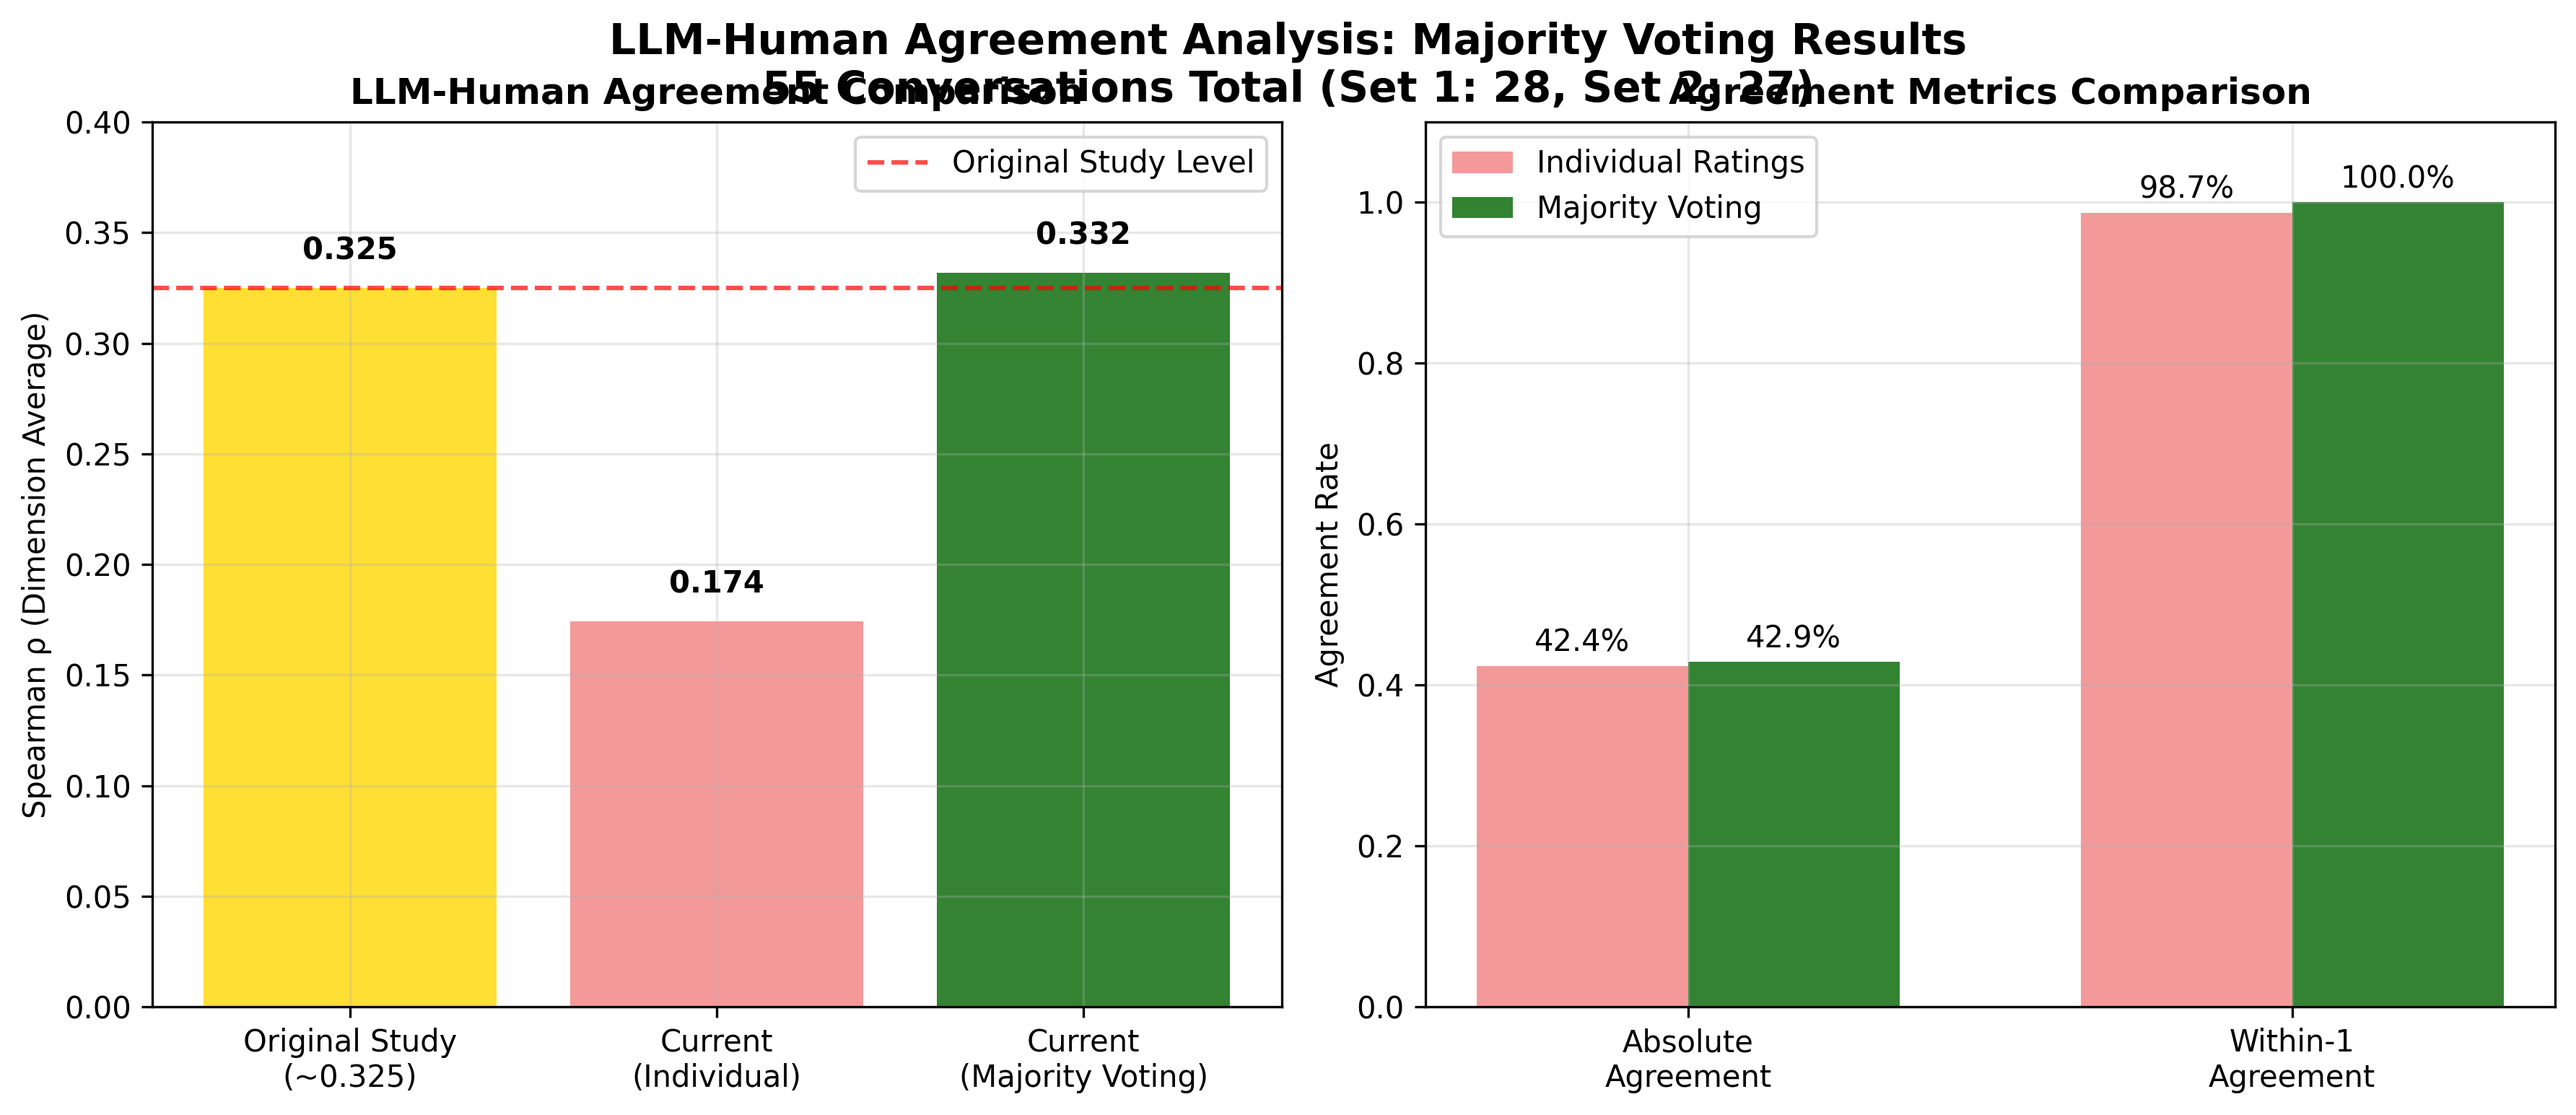
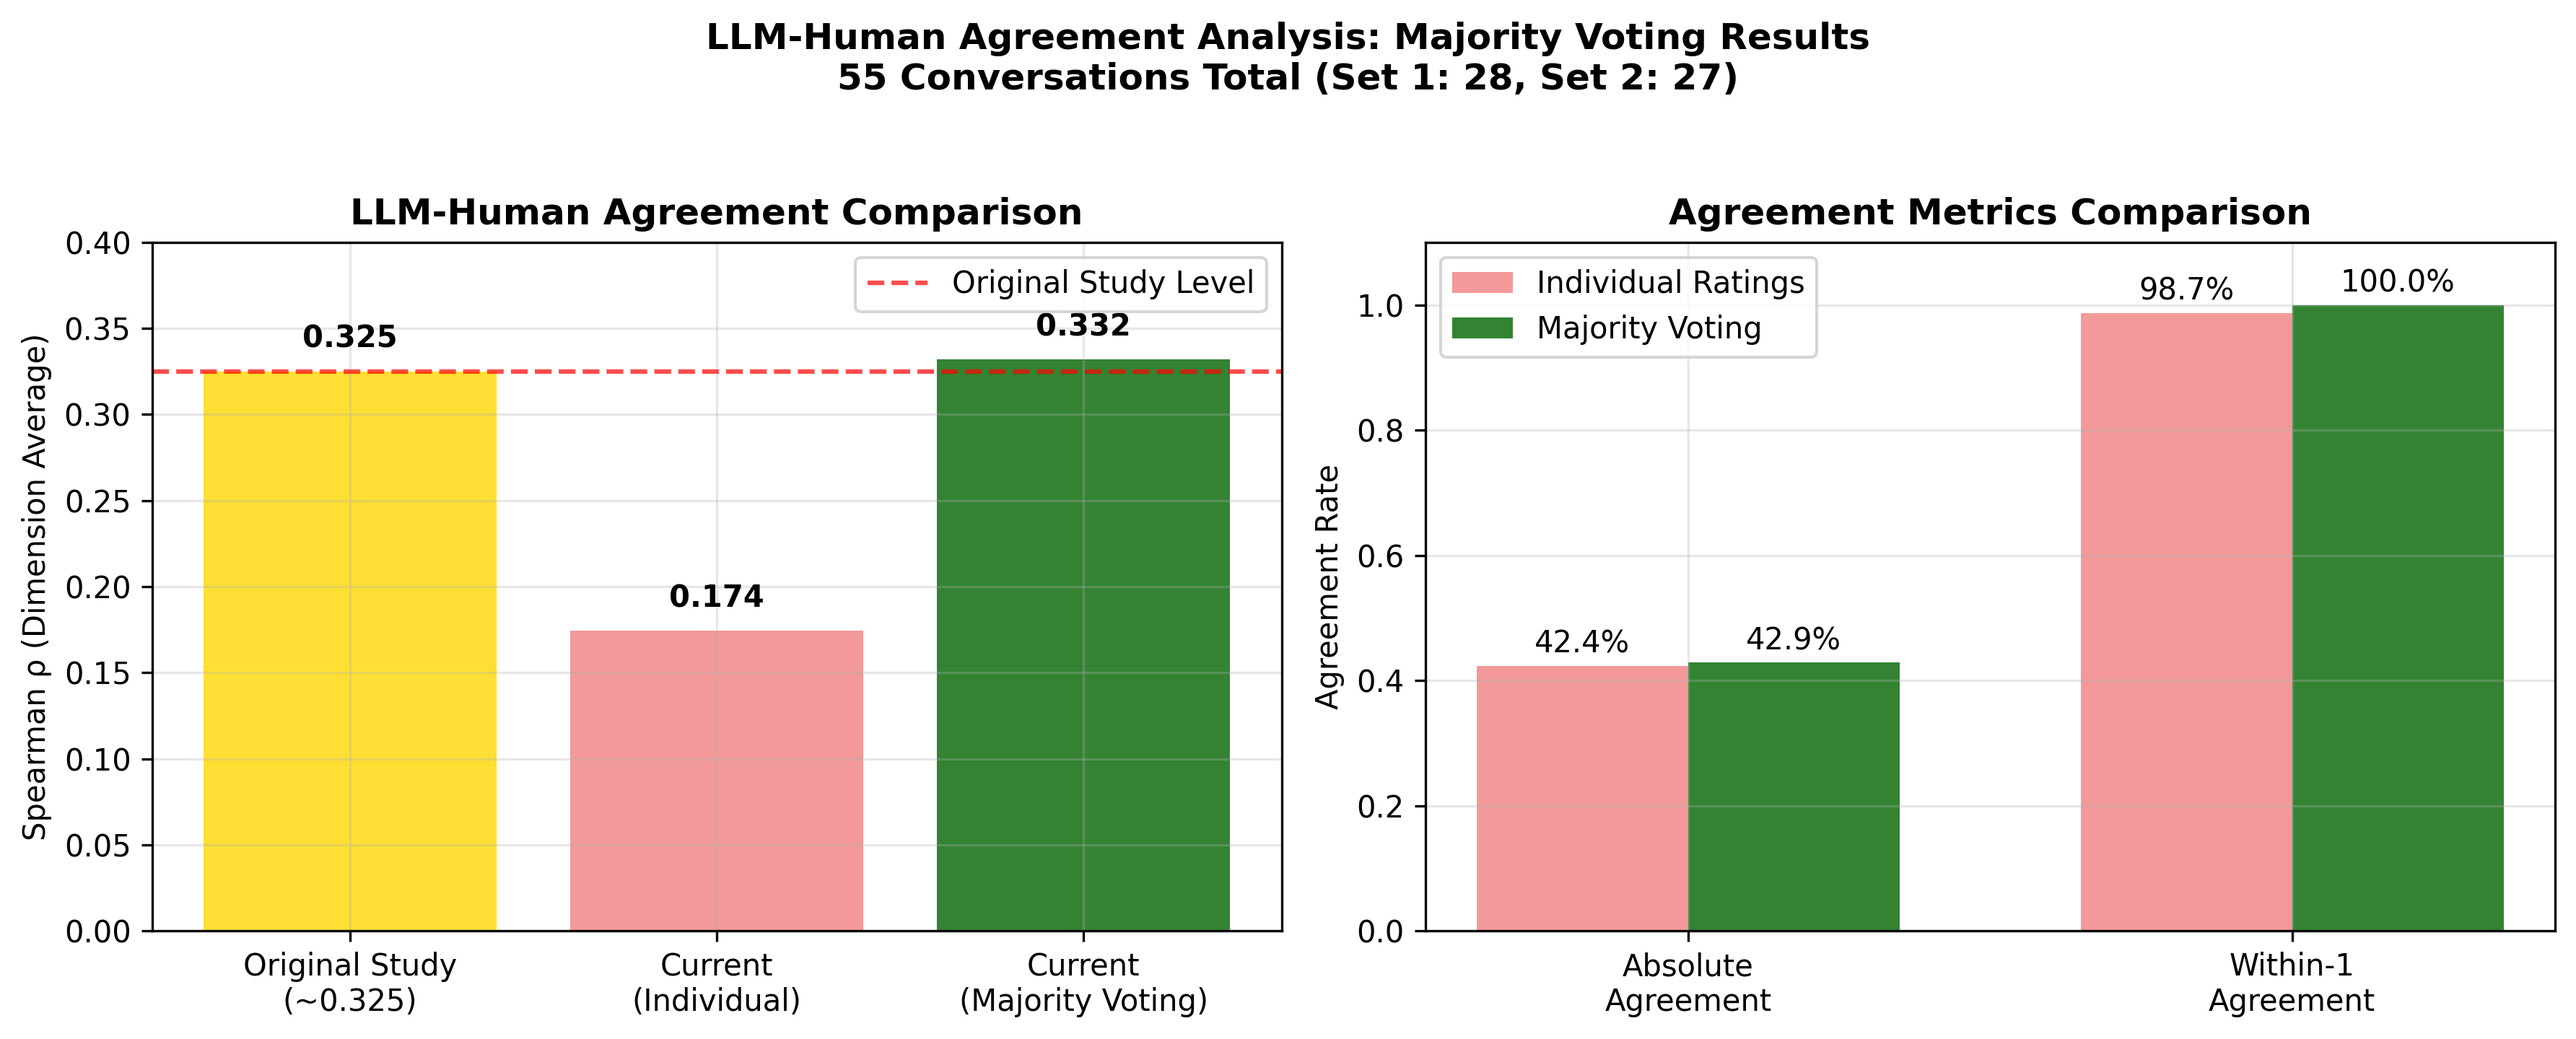
Add clear descriptions to complex visualization
- Add explanatory text below each subplot in main analysis figure
- Increase figure height to accommodate description text
- Adjust layout with tight_layout to prevent text overlap
- Each subplot now has italic text explaining what it shows
- Makes the complex 9-panel figure much more understandable

diff --git a/llm_human_agreement/analysis/full_dataset_majority/llm_human_agreement_with_majority_voting.py b/llm_human_agreement/analysis/full_dataset_majority/llm_human_agreement_with_majority_voting.py
@@ -192,9 +192,9 @@ def plot_enhanced_agreement_analysis(results_majority, results_individual=None):
     """Create enhanced visualizations comparing majority voting vs individual ratings"""
     
     if results_individual:
-        fig, axes = plt.subplots(3, 3, figsize=(18, 14))
+        fig, axes = plt.subplots(3, 3, figsize=(18, 16))  # Increased height for descriptions
     else:
-        fig, axes = plt.subplots(2, 3, figsize=(15, 10))
+        fig, axes = plt.subplots(2, 3, figsize=(15, 12))  # Increased height for descriptions
     
     dimensions = list(results_majority.keys())
     
@@ -225,6 +225,10 @@ def plot_enhanced_agreement_analysis(results_majority, results_individual=None):
     ax.grid(True, alpha=0.3)
     ax.set_ylim([0, 1.1])
     
+    # Add description
+    ax.text(0.5, -0.20, 'Exact match (blue) and ±1 tolerance (red) rates\nafter resolving human disagreements via majority voting',
+           transform=ax.transAxes, ha='center', va='top', fontsize=8, style='italic')
+    
     # Plot 2: Correlations with Kappa
     ax = axes[0, 1]
     
@@ -254,6 +258,10 @@ def plot_enhanced_agreement_analysis(results_majority, results_individual=None):
     ax.grid(True, alpha=0.3)
     ax.set_ylim([-0.1, 1])
     
+    # Add description
+    ax.text(0.5, -0.20, 'Three statistical measures: Spearman/Pearson correlations\nand Cohen\'s κ for classification agreement',
+           transform=ax.transAxes, ha='center', va='top', fontsize=8, style='italic')
+    
     # Plot 3: Human Inter-rater Agreement
     ax = axes[0, 2]
     human_agreements = [results_majority[d]['avg_human_agreement'] for d in dimensions]
@@ -269,6 +277,10 @@ def plot_enhanced_agreement_analysis(results_majority, results_individual=None):
     ax.set_xticklabels([d.replace('_', ' ').title() for d in dimensions], rotation=45, ha='right')
     ax.grid(True, alpha=0.3)
     ax.set_ylim([0, 1])
+    
+    # Add description
+    ax.text(0.5, -0.35, 'Human evaluators agreed ~73-75% of the time,\nshowing need for majority voting to resolve disagreements',
+           transform=ax.transAxes, ha='center', va='top', fontsize=8, style='italic')
     
     # Plots 4-6: Scatter plots for first 3 dimensions
     for idx, dim in enumerate(dimensions[:3]):
@@ -306,6 +318,10 @@ def plot_enhanced_agreement_analysis(results_majority, results_individual=None):
         
         # Add colorbar
         plt.colorbar(im, ax=ax, fraction=0.046, pad=0.04)
+        
+        # Add description for confusion matrix
+        ax.text(0.5, -0.25, 'Score distribution: darker = more frequent\nDiagonal = perfect LLM-human agreement',
+               transform=ax.transAxes, ha='center', va='top', fontsize=8, style='italic')
     
     # If we have individual results, add comparison row
     if results_individual:
@@ -351,6 +367,10 @@ def plot_enhanced_agreement_analysis(results_majority, results_individual=None):
         ax.grid(True, alpha=0.3)
         ax.set_ylim([0, 1.2])
         
+        # Add description
+        ax.text(0.5, -0.20, 'Before vs after majority voting\nGreen % = improvement achieved',
+               transform=ax.transAxes, ha='center', va='top', fontsize=8, style='italic')
+        
         # Plot 8: Summary statistics table
         ax = axes[2, 1]
         ax.axis('tight')
@@ -393,6 +413,10 @@ def plot_enhanced_agreement_analysis(results_majority, results_individual=None):
         
         ax.set_title('Overall Comparison', fontweight='bold', pad=20)
         
+        # Add description
+        ax.text(0.5, -0.15, 'Numerical summary of all improvements\nGreen = positive changes from majority voting',
+               transform=ax.transAxes, ha='center', va='top', fontsize=8, style='italic')
+        
         # Plot 9: Distribution of human agreement rates
         ax = axes[2, 2]
         
@@ -413,9 +437,14 @@ def plot_enhanced_agreement_analysis(results_majority, results_individual=None):
         ax.set_xticklabels([d.replace('_', '\n').title() for d in dimensions], rotation=0)
         ax.grid(True, alpha=0.3)
         ax.set_ylim([0, 1])
+        
+        # Add description
+        ax.text(0.5, -0.20, 'Human evaluator consistency by dimension\n~25% disagreement requires majority resolution',
+               transform=ax.transAxes, ha='center', va='top', fontsize=8, style='italic')
     
-    plt.suptitle('LLM-Human Agreement Analysis with Majority Voting', fontsize=16, fontweight='bold')
-    plt.tight_layout()
+    plt.suptitle('LLM-Human Agreement Analysis with Majority Voting\nComprehensive Results for 55 Conversations', 
+                fontsize=14, fontweight='bold', y=0.97)
+    plt.tight_layout(rect=[0, 0, 1, 0.95])  # Leave space for title and descriptions
     
     return fig
 

diff --git a/llm_human_agreement/analysis/full_dataset_majority/simplified_analysis.py b/llm_human_agreement/analysis/full_dataset_majority/simplified_analysis.py
@@ -160,10 +160,10 @@ def create_simple_comparison_plot(results_individual, results_majority):
     ax.grid(True, alpha=0.3)
     ax.set_ylim(0, 1.1)
     
-    plt.tight_layout()
     plt.suptitle('LLM-Human Agreement Analysis: Majority Voting Results\n' + 
                  '55 Conversations Total (Set 1: 28, Set 2: 27)', 
-                 fontsize=14, fontweight='bold', y=1.02)
+                 fontsize=12, fontweight='bold', y=0.95)
+    plt.tight_layout(rect=[0, 0, 1, 0.92])
     
     return fig
 
